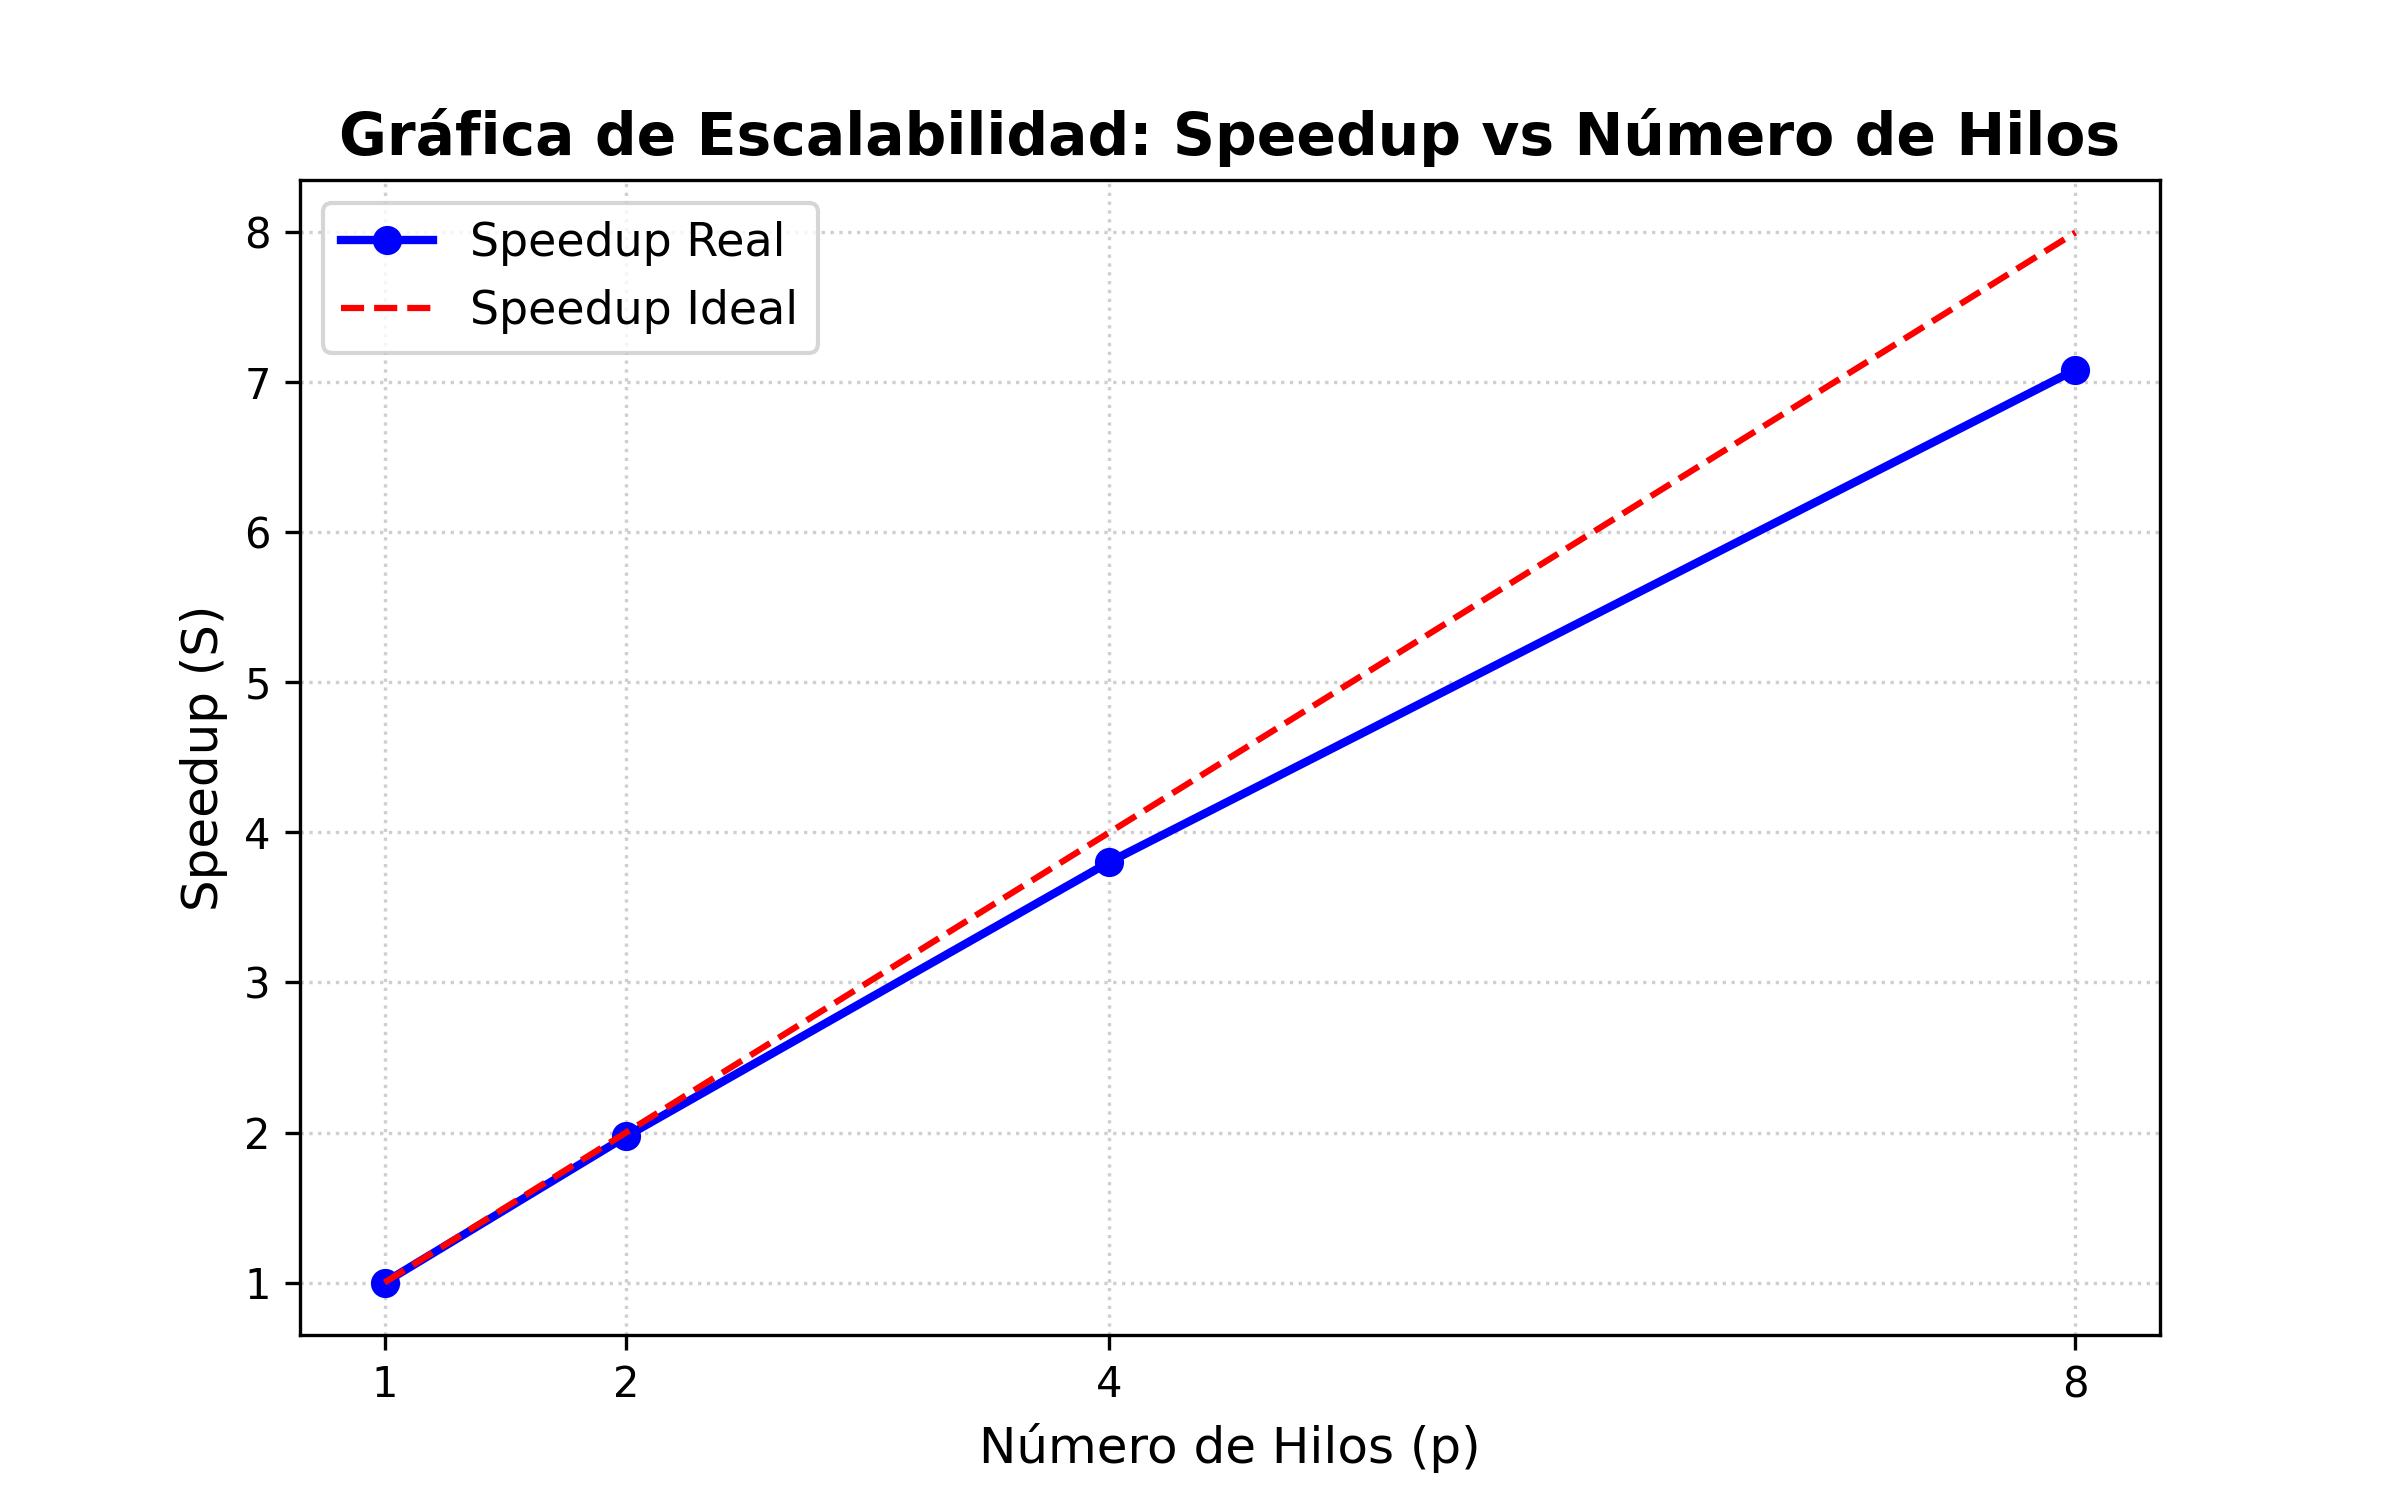
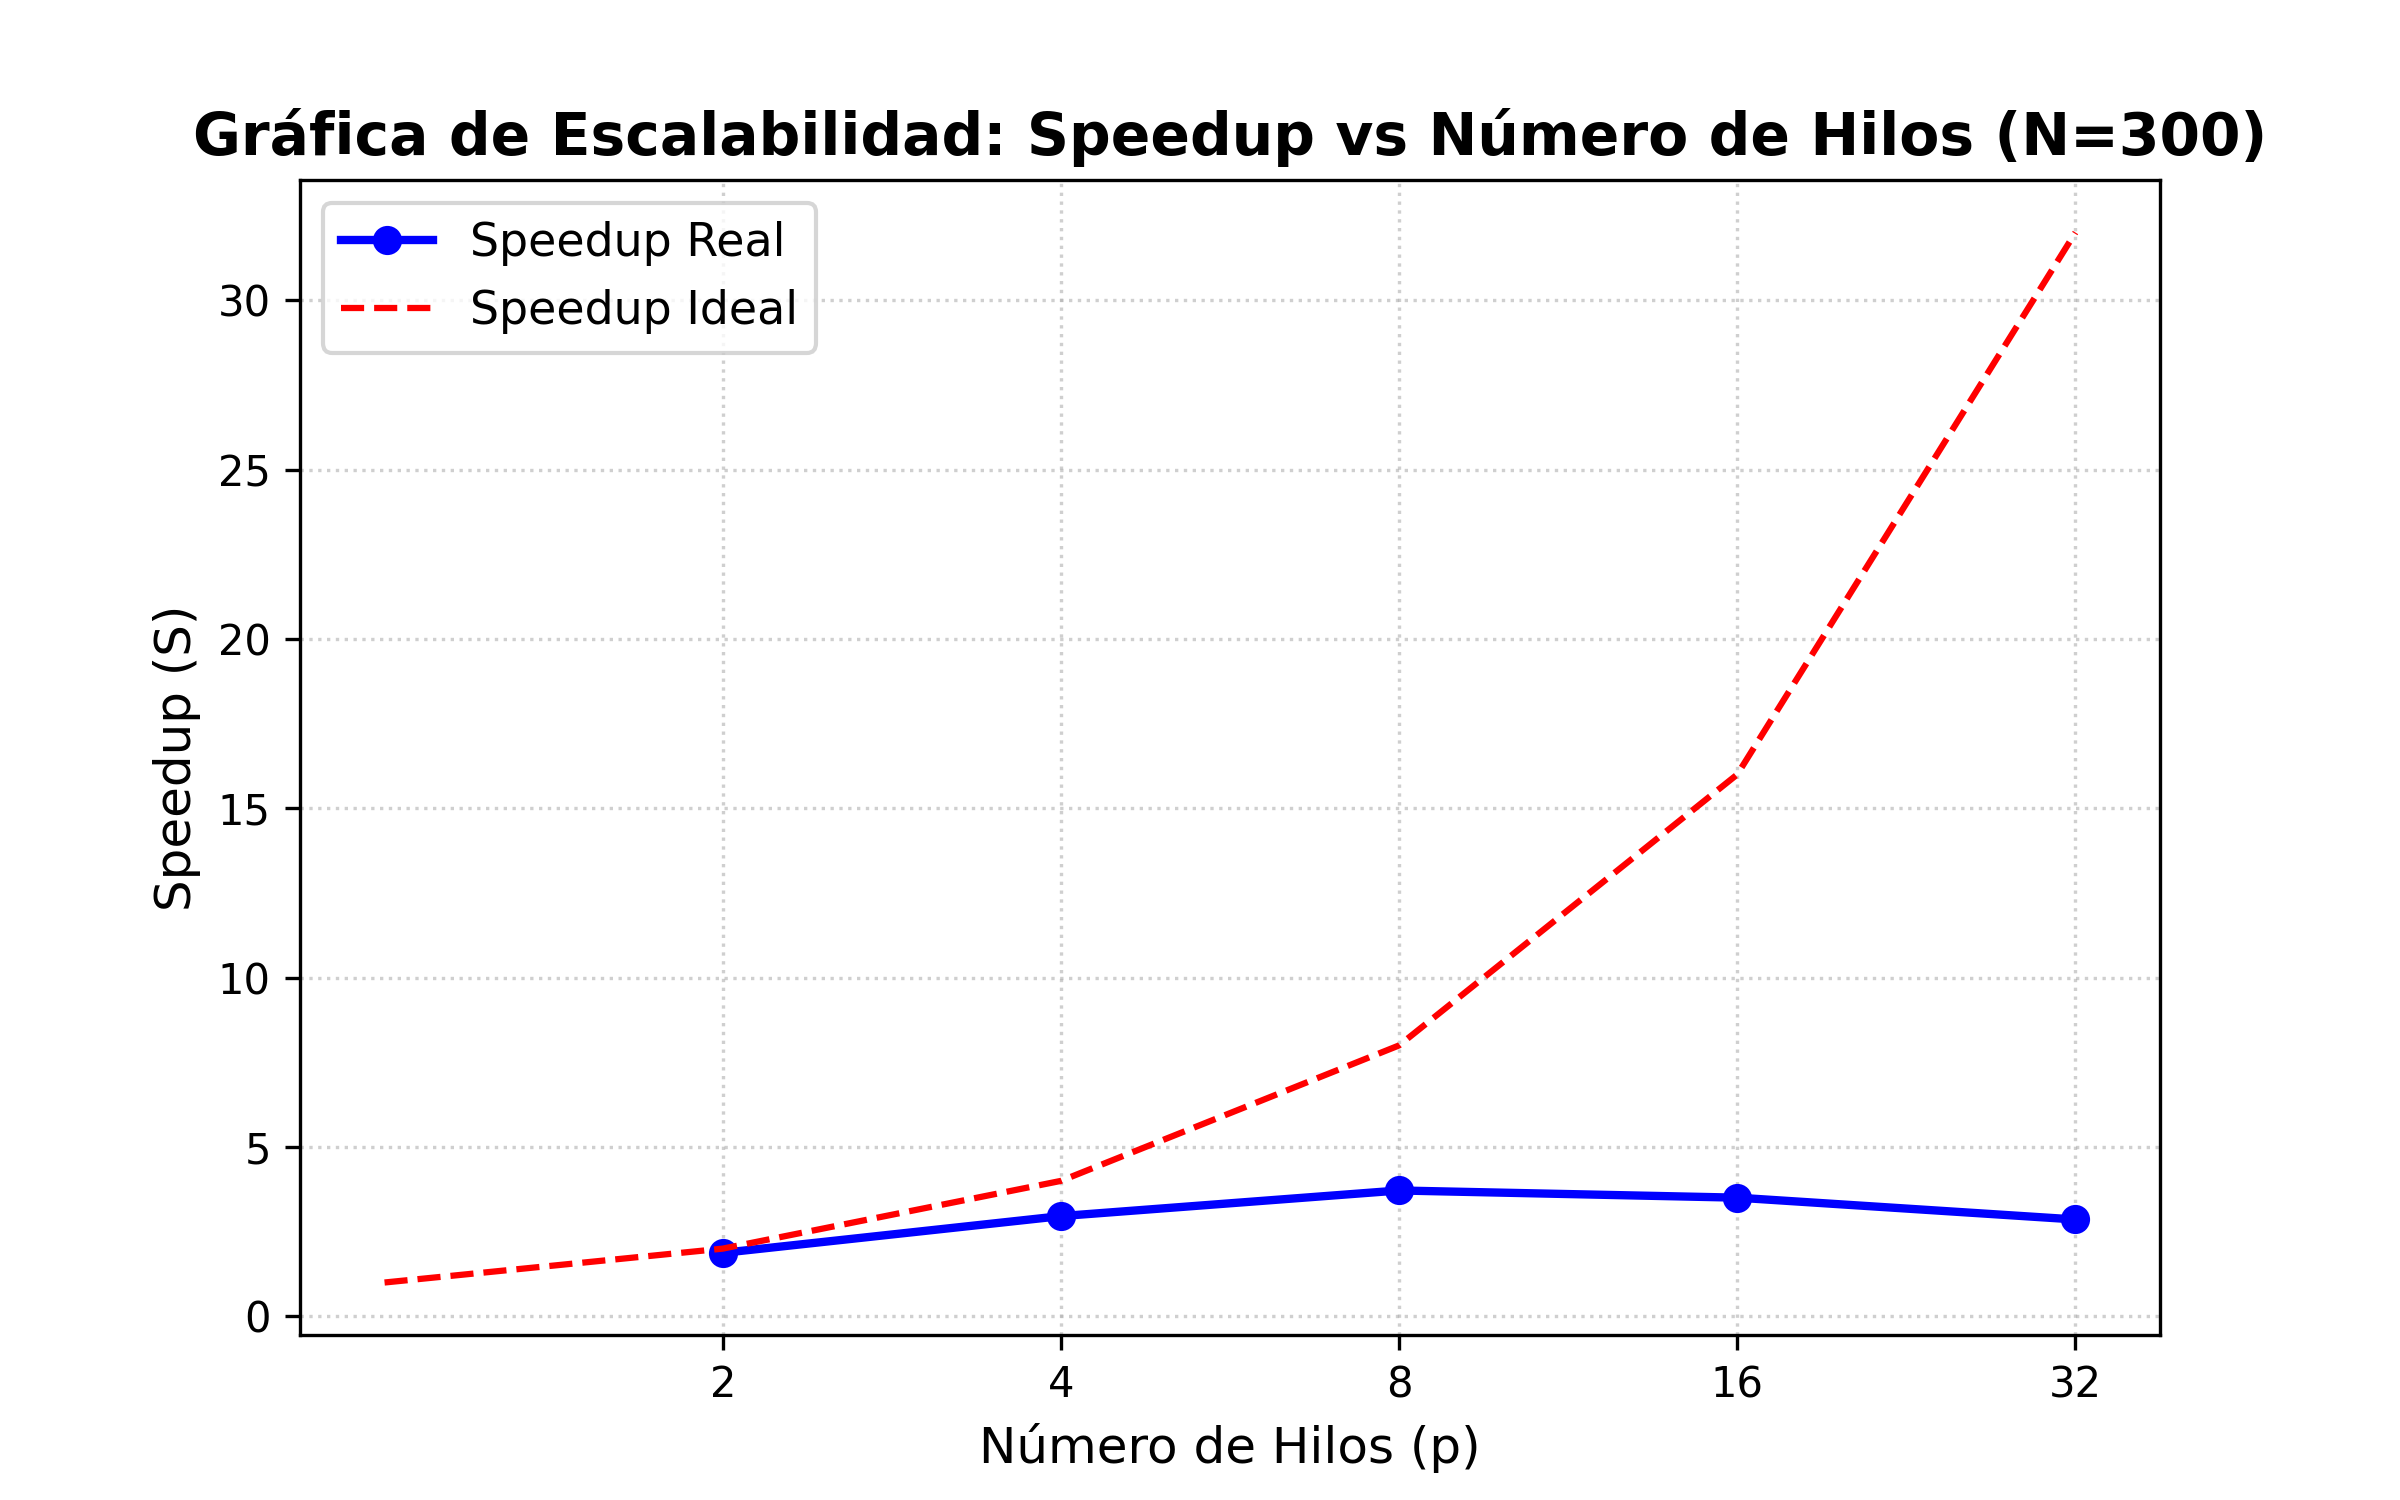
Shear sort y arreglo de MPI

diff --git a/Tarea2/GenerarGraficos/grafico.py b/Tarea2/GenerarGraficos/grafico.py
@@ -1,34 +1,53 @@
-try:
-	from matplotlib import pyplot as plt  # type: ignore
-except Exception:
-	import sys
-	print("matplotlib not installed or could not be imported. Install with: pip install matplotlib")
-	sys.exit(1)
+import sys
 
-# 1. Tus datos reales medidos en la simulación
-hilos = [1, 2, 4, 8, 16]
-tiempos = [150.2, 76.1, 39.5, 21.2, 12.8]  # <--- Pon aquí tus tiempos en segundos
+# =========================================================================
+# 1. Datos reales medidos en Kabré (Mapeo directo de Hilos -> Tiempo)
+# =========================================================================
+hilos = [2, 4, 8, 16, 32]
 
-# 2. Calcular el Speedup real (T1 / Tp)
-t1 = tiempos[0]
-speedup_real = [t1 / tp for tp in tiempos]
+# N = 100
+t_serial_100 = 0.75  
+tiempos_100 = {2: 0.3917, 4: 0.2048, 8: 0.1160, 16: 0.0656, 32: 0.0695}
 
-# 3. Calcular el Speedup ideal (Aceleración lineal perfecta: S = p)
-speedup_ideal = hilos
+# N = 200
+t_serial_200 = 11.2  
+tiempos_200 = {2: 5.76351, 4: 3.78357, 8: 3.04937, 16: 2.58469, 32: 3.0008}
 
-# 4. Diseñar la gráfica
-plt.figure(figsize=(8, 5))
-plt.plot(hilos, speedup_real, marker='o', linewidth=2, color='blue', label='Speedup Real ')
-plt.plot(hilos, speedup_ideal, linestyle='--', color='red', label='Speedup Ideal')
+# N = 300
+t_serial_300 = 38.5  
+tiempos_300 = {2: 20.5323, 4: 13.0071, 8: 10.3575, 16: 10.9845, 32: 13.4586}
 
-# Configuración de ejes y títulos
-plt.title('Gráfica de Escalabilidad: Speedup vs Número de Hilos', fontsize=14, fontweight='bold')
-plt.xlabel('Número de Hilos (p)', fontsize=12)
-plt.ylabel('Speedup (S)', fontsize=12)
-plt.xticks(hilos) # Forzar a que muestre solo tus configuraciones de hilos
-plt.grid(True, linestyle=':', alpha=0.6)
-plt.legend(fontsize=11)
 
-# Guardar y mostrar
-plt.savefig('grafica_speedup.png', dpi=300)
-plt.show()
+# =========================================================================
+# 2. Impresión de la Tabla Formateada
+# =========================================================================
+print("=" * 82)
+print(f"{'TABLA COMPARATIVA DE RENDIMIENTO (SPEEDUP Y EFICIENCIA)':^82}")
+print("=" * 82)
+print(f"{'Hilos (p)':<12} | {'Métrica':<15} | {'N = 100':<14} | {'N = 200':<14} | {'N = 300':<14}")
+print("-" * 82)
+
+# Iterar directamente sobre la lista de hilos configurada
+for p in hilos:
+    # Obtener tiempos
+    t100 = tiempos_100[p]
+    t200 = tiempos_200[p]
+    t300 = tiempos_300[p]
+    
+    # Calcular Speedups (T_serial / T_paralelo)
+    s_100 = t_serial_100 / t100
+    s_200 = t_serial_200 / t200
+    s_300 = t_serial_300 / t300
+    
+    # Calcular Eficiencias ((Speedup / p) * 100)
+    e_100 = (s_100 / p) * 100
+    e_200 = (s_200 / p) * 100
+    e_300 = (s_300 / p) * 100
+    
+    # Fila 1: Tiempos de ejecución
+    print(f"{p:<12} | {'Tiempo (s)':<15} | {t100:<14.4f} | {t200:<14.4f} | {t300:<14.4f}")
+    # Fila 2: Speedup relativo
+    print(f"{'':<12} | {'Speedup':<15} | {s_100:<14.2f} | {s_200:<14.2f} | {s_300:<14.2f}")
+    # Fila 3: Eficiencia del hardware
+    print(f"{'':<12} | {'Eficiencia':<15} | {f'{e_100:.1f}%':<14} | {f'{e_200:.1f}%':<14} | {f'{e_300:.1f}%':<14}")
+    print("-" * 82)

diff --git a/TrabajosEnClase/TrabajoEnClase8ShearSort/main.cpp b/TrabajosEnClase/TrabajoEnClase8ShearSort/main.cpp
@@ -1,0 +1,68 @@
+#include <iostream>
+#include "matriz.hpp"
+#include <algorithm>
+
+int main() {
+    matriz m;
+    m.llenarMatriz();
+    m.imprimirMatriz();
+    std::cout << "Ordenando la matriz..." << std::endl;
+    std::vector<std::vector<int>> matriz = m.getMatriz();
+    int iteracion = 0;
+    while(true){
+        bool ordenamiento_realizado=false;
+        #pragma omp parallel for schedule(static)
+        for(size_t i=0; i < matriz.size(); i++) {
+            bool fila_cambiada = false;
+            if(i%2==0){
+                if(!std::is_sorted(matriz[i].begin(), matriz[i].end())) {
+                    std::sort(matriz[i].begin(), matriz[i].end());
+                    fila_cambiada = true;
+                }
+            }
+            else{
+                if(!std::is_sorted(matriz[i].begin(), matriz[i].end(), std::greater<int>())) {
+                    std::sort(matriz[i].begin(), matriz[i].end(), std::greater<int>());
+                    fila_cambiada = true;
+                }
+            }
+            if(fila_cambiada) {
+                #pragma omp critical
+                {
+                    ordenamiento_realizado = true;
+                }
+            }
+        }
+        if(ordenamiento_realizado == false && iteracion > 0){
+            std::cout << "\nMatriz Ordenada:\n";
+            for(size_t i=0; i < matriz.size(); i++){
+                for(size_t j=0; j < matriz[i].size(); j++){
+                    std::cout << matriz[i][j] << " ";
+                }
+                std::cout << std::endl;
+            }
+            break;
+        }
+        else{
+            std::vector<std::vector<int>> matriz_transpuesta=matriz;
+            #pragma omp parallel for schedule(static)
+            for(size_t i=0; i < matriz.size(); i++) {
+                for(size_t j=0; j < matriz[i].size(); j++) {
+                    matriz_transpuesta[j][i] = matriz[i][j];
+                }
+            }
+            #pragma omp parallel for schedule(static)
+            for(size_t i=0; i < matriz.size(); i++) {
+                    std::sort(matriz_transpuesta[i].begin(), matriz_transpuesta[i].end());
+            }
+            #pragma omp parallel for schedule(static)
+            for(size_t i=0; i < matriz.size(); i++) {
+                for(size_t j=0; j < matriz[i].size(); j++) {
+                    matriz[i][j] = matriz_transpuesta[j][i];
+                }
+            }
+            iteracion++;
+        }
+    }
+    return 0;
+}

diff --git a/TrabajosEnClase/MPI/TrabajoEnClase9/main.cpp b/TrabajosEnClase/MPI/TrabajoEnClase9/main.cpp
@@ -14,25 +14,25 @@ int main(int argc, char* argv[]) {
     MPI_Comm_rank(MPI_COMM_WORLD, &rank);
     MPI_Comm_size(MPI_COMM_WORLD, &size);
 
-    while (contador<1000){
-        if(rank==0){
-            MPI_Send( &contador, 1 , MPI_INT , 1 , 0 , MPI_Comm MPI_COMM_WORLD );
-            MPI_Recv( &contador, 1 , MPI_INT , 1 , 0 , MPI_Comm MPI_COMM_WORLD , NULL);
+    while (contador < 1000) {
+        if(rank == 0){
+            // El hilo 0 aumenta primero, imprime y envía
             contador++;
-            std::cout << "Aumentando el contador desde el hilo  0" << std::endl;
-            std::cout << contador << std::endl;
-
-
-        }else{
-            MPI_Send( &contador, 1 , MPI_INT , 0, 0 , MPI_Comm MPI_COMM_WORLD );
-            MPI_Recv( &contador, 1 , MPI_INT , 0, 0 , MPI_Comm MPI_COMM_WORLD , NULL);
+            std::cout << "Aumentando el contador desde el hilo  0\n" << contador << std::endl;
+            MPI_Send(&contador, 1, MPI_INT, 1, 0, MPI_COMM_WORLD);
+            
+            // Recibe la respuesta del hilo 1 para estar sincronizados
+            MPI_Recv(&contador, 1, MPI_INT, 1, 0, MPI_COMM_WORLD, MPI_STATUS_IGNORE);
+            
+        } else {
+            // El hilo 1 espera el valor, aumenta, imprime y lo devuelve
+            MPI_Recv(&contador, 1, MPI_INT, 0, 0, MPI_COMM_WORLD, MPI_STATUS_IGNORE);
             contador++;
-            std::cout << "Aumentando el contador desde el hilo  1" << std::endl;
-            std::cout << contador << std::endl;
-
+            std::cout << "Aumentando el contador desde el hilo  1\n" << contador << std::endl;
+            MPI_Send(&contador, 1, MPI_INT, 0, 0, MPI_COMM_WORLD);
         }
     }
     
-     MPI_Finalize();
+    MPI_Finalize();
     return 0;
 }

diff --git a/TrabajosEnClase/TrabajoEnClase8ShearSort/matriz.cpp b/TrabajosEnClase/TrabajoEnClase8ShearSort/matriz.cpp
@@ -1,0 +1,24 @@
+#include "matriz.hpp"
+
+void matriz::llenarMatriz() {
+    int n;
+    std::cout << "Ingrese el tamanio de la matriz cuadrada (N): ";
+    std::cin >> n;
+
+    matriz.resize(n, std::vector<int>(n));
+
+    for (int i = 0; i < n; i++) {
+        for (int j = 0; j < n; j++) {
+            matriz[i][j] = rand() % 100; // Llenar con números aleatorios entre 0 y 99
+        }
+    }
+}
+
+void matriz::imprimirMatriz() {
+    for (const auto& fila : matriz) {
+        for (const auto& elemento : fila) {
+            std::cout << elemento << " ";
+        }
+        std::cout << std::endl;
+    }
+}

diff --git a/TrabajosEnClase/TrabajoEnClase8ShearSort/matriz.hpp b/TrabajosEnClase/TrabajoEnClase8ShearSort/matriz.hpp
@@ -1,0 +1,15 @@
+#include <iostream>
+#include <vector>
+#include <random>
+class matriz {
+    private:
+        std::vector<std::vector<int>> matriz;
+    public:
+
+        void llenarMatriz();
+        void imprimirMatriz();
+
+        std::vector<std::vector<int>>& getMatriz() {
+            return matriz;
+        }
+};